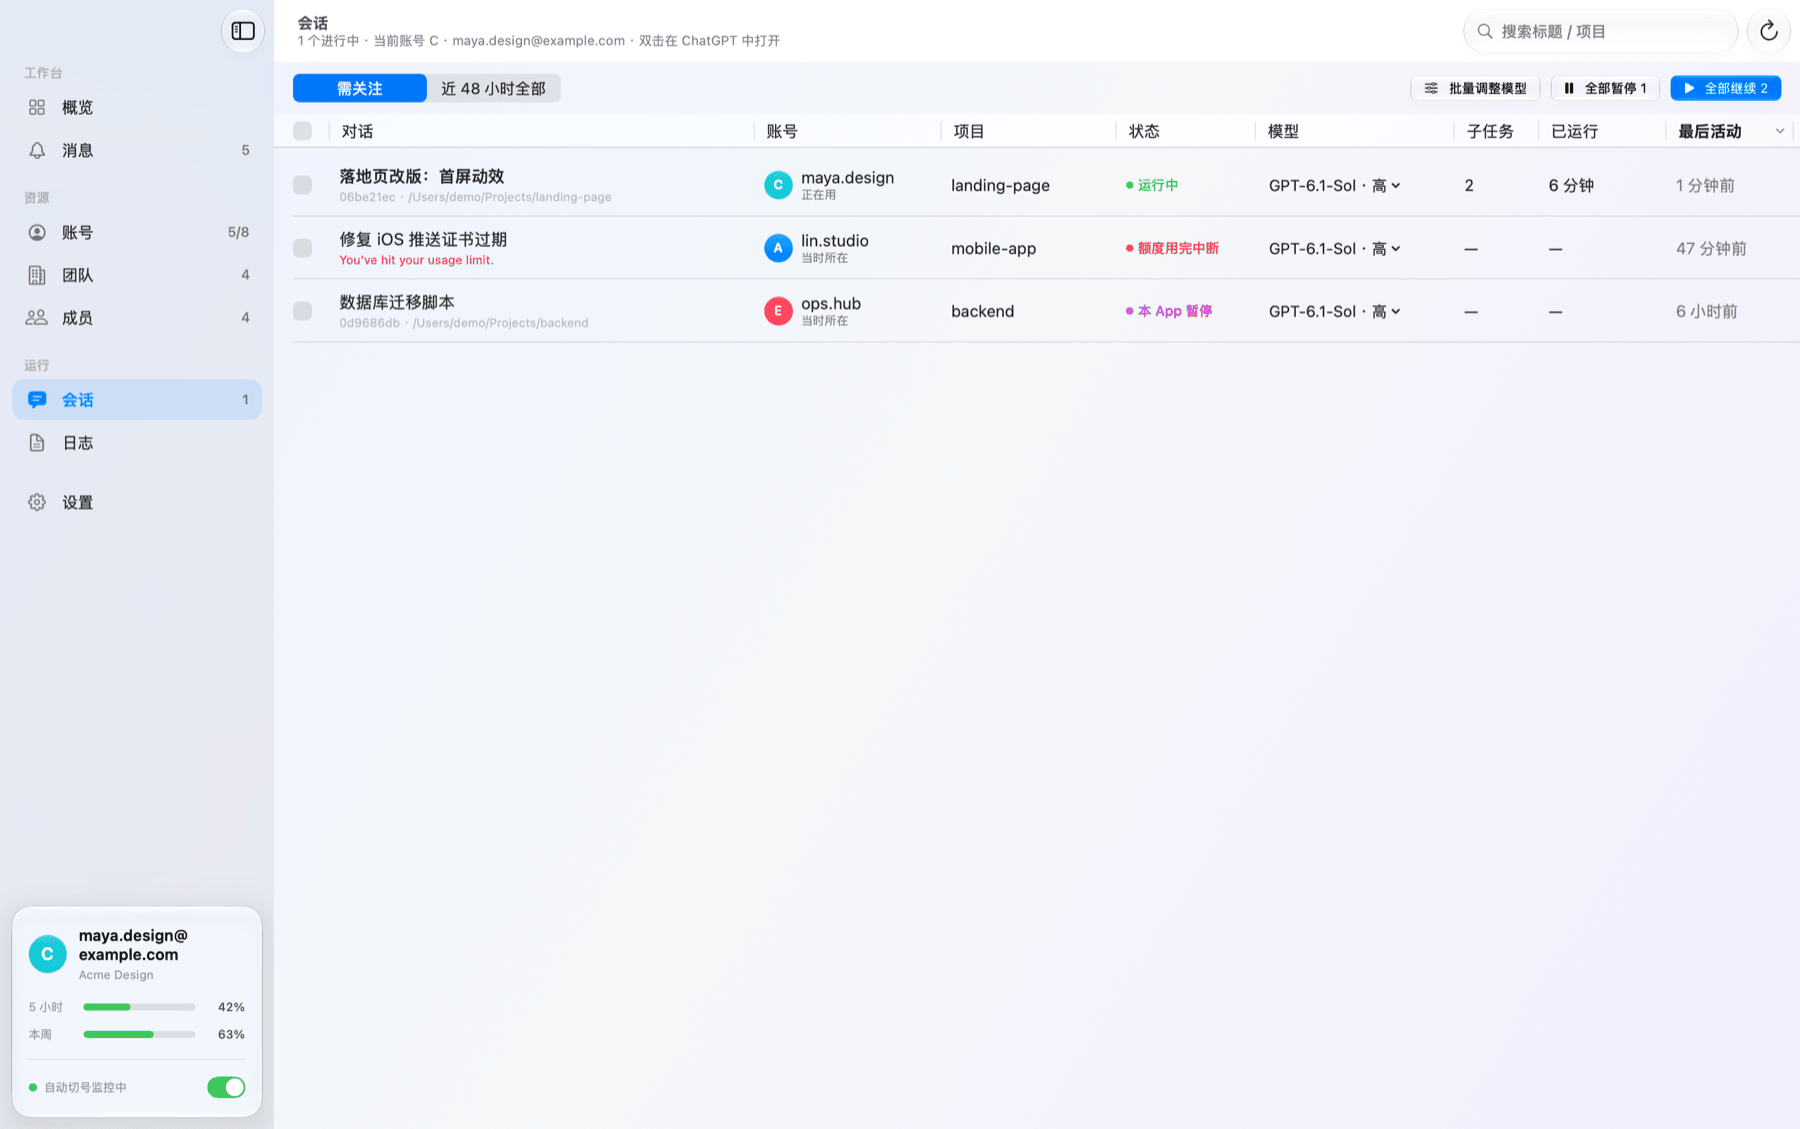
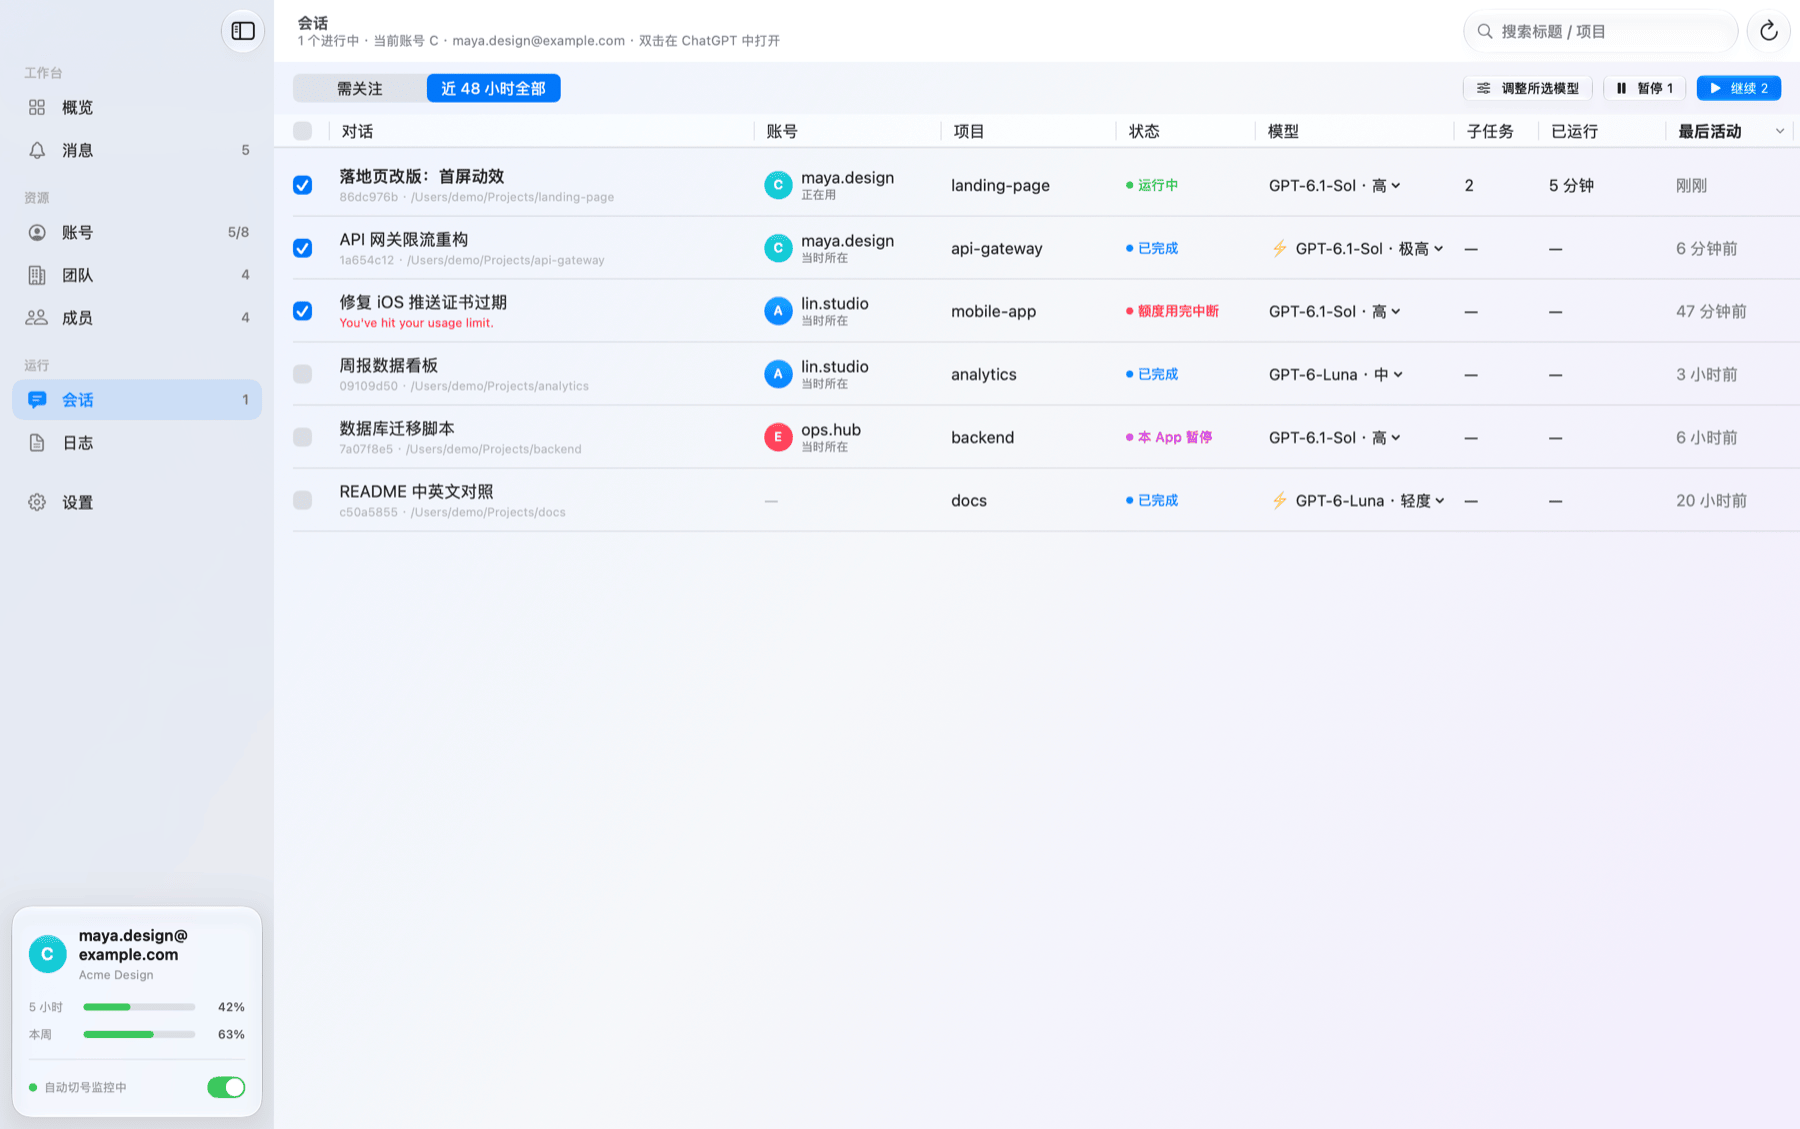
README: session management section with model / speed switching screenshots

diff --git a/App/SessionsPage.swift b/App/SessionsPage.swift
@@ -189,6 +189,15 @@ struct SessionsPage: View {
             Button { store.reloadSessions() } label: { Label("刷新", systemImage: "arrow.clockwise") }
         }
         .onAppear { store.loadModels() }
+        .onAppear {   // 截图 / 演示用：--sessions-all 看全部、--demo-check 勾选前 3 行、--show-bulk 打开批量调整
+            // （参数后面不能跟数字：跟了窗口就不出来）
+            let args = CommandLine.arguments
+            if args.contains("--sessions-all") { filter = "all" }
+            if args.contains("--demo-check") {
+                DispatchQueue.main.asyncAfter(deadline: .now() + 1) { checked = Set(rows.prefix(3).map(\.id)) }
+            }
+            if args.contains("--show-bulk") { DispatchQueue.main.asyncAfter(deadline: .now() + 1.5) { bulk = true } }
+        }
         .onAppear { if let f = store.focus, store.sessions.contains(where: { $0.thread == f }) { selection = f; filter = "all"; store.focus = nil } }
     }
 

diff --git a/README.md b/README.md
@@ -5,7 +5,8 @@
 # ChatGPT / Codex Auto Switch
 
 **ChatGPT 账号：多个 ChatGPT / Codex 账号，一个窗口管好。**<br>
-额度用完自动换号，被打断的对话自动接着答；团队续费、成员交费、额度重置券一目了然。
+额度用完自动换号，被打断的对话自动接着答；所有 Codex 对话一张表里继续 / 暂停，随手换模型、推理强度和速度；<br>
+团队续费、成员交费、额度重置券一目了然。
 
 [![macOS 14+](https://img.shields.io/badge/macOS-14%2B-000000?logo=apple&logoColor=white)](#系统要求)
 [![Apple Silicon](https://img.shields.io/badge/Apple%20Silicon-M1%E2%80%93M4-555555)](#系统要求)
@@ -13,7 +14,7 @@
 [![Python 3.9+](https://img.shields.io/badge/Python-3.9%2B-3776AB?logo=python&logoColor=white)](engine.py)
 [![License: MIT](https://img.shields.io/badge/License-MIT-green.svg)](LICENSE)
 
-[**⬇ 下载最新版**](../../releases/latest) · [功能](#功能一览) · [安装](#安装) · [常见问题](#常见问题) · [English](README.en.md)
+[**⬇ 下载最新版**](../../releases/latest) · [功能](#功能一览) · [会话管理](#-会话管理) · [安装](#安装) · [常见问题](#常见问题) · [English](README.en.md)
 
 <picture>
   <source media="(prefers-color-scheme: dark)" srcset="docs/images/overview-dark.png">
@@ -40,6 +41,8 @@
 | | |
 |---|---|
 | 🔄 **自动切号并续答** | 额度用完先等同账号上还在跑的对话自己做完，再换到下一个可用账号，被打断的对话在后台自动接着答；全程不抢你手上的窗口 |
+| 💬 **会话管理** | 所有 Codex 对话一张表：在跑、卡住、因额度中断、跑在哪个账号；逐个或勾选批量**继续 / 暂停**，全在后台，不用切到 ChatGPT |
+| 🧠 **随手换模型和速度** | 每个对话单独或批量改**模型、推理强度（轻度 → 极高）、速度（标准 / 快速 2 倍）**，下一轮生效；选项和叫法跟 ChatGPT 自己的菜单一致 |
 | 🧭 **切号规则可调** | 按字母、「重置最近优先」或「剩余最多优先」挑下一个；留着自己手动用的账号可以设成「不参与自动轮换」 |
 | 📊 **额度一眼看清** | 每个账号的 5 小时 / 本周剩余、重置时间、几点恢复，当前账号几乎实时 |
 | ▶ **结束后自动继续** | 模型自己停下（不是额度用完）也能自动接着干，每个对话有次数上限，整晚不用守着 |
@@ -47,8 +50,6 @@
 | 🎟 **额度重置券** | 列出每个账号的免费重置券和过期时间，一键使用，用前二次确认 |
 | 🏢 **团队与订阅** | 所有团队空间的续费 / 到期日、席位用量、成员、待接受邀请 |
 | 💰 **成员交费台账** | 按加入日每月提醒交费，逾期标红，收到钱点「标记已交」顺延一个月 |
-| 💬 **会话管理** | 哪些对话在跑、哪些因额度中断、跑在哪个账号；逐个或勾选批量**继续 / 暂停**，不用切到 ChatGPT |
-| 🧠 **改模型和速度** | 每个对话单独或批量改模型、推理强度、速度（标准 / 快速），选项和叫法跟 ChatGPT 自己的菜单一致 |
 | 🔔 **消息中心** | 续费、到期、欠费、交费、新成员、券过期，提前 3 天提醒并发系统通知 |
 | 🛡 **不怕 Cloudflare 拦截** | 团队、订阅、成员接口被 Cloudflare 拦下时，自动改用 App 内置的浏览器内核去取 |
 | 🔒 **数据只在本机** | 没有服务器，不收集任何信息；只和 chatgpt.com 通信 |
@@ -92,18 +93,37 @@
 
 后台服务重启后，会补查最近 30 分钟内因额度停下的对话，该切号就切、该续答就续答。
 
-会话页列出近 48 小时的对话：运行中、疑似卡住、额度用完中断、本 App 暂停、已完成……跑在哪个账号、用的什么模型，默认按最后活动排序。
+### 💬 会话管理
 
-- **继续 / 暂停**：每行右边有「继续」（没在跑的）或「暂停」（正在跑的）按钮，后台进行，不切到 ChatGPT。
+所有 Codex 对话在一张表里：不用在 ChatGPT 里一个个点开，就知道哪些在跑、哪些卡住、哪些因额度中断，
+跑在哪个账号、用的什么模型和速度，并且直接在这里操作，全部在后台进行，ChatGPT 不会被叫到前台。
+
+- **一眼看全**：近 48 小时的对话，状态分运行中、疑似卡住、额度用完中断、本 App 暂停、已手动停止、已完成；
+  另有账号、项目、子任务数、已运行时长、最后活动，默认按最后活动倒序。「需关注」只留在跑、中断、暂停和排队的；可按标题或项目搜索。
+- **继续 / 暂停**：每行右边有「继续」（没在跑的）或「暂停」（正在跑的）按钮。
   暂停等同在 ChatGPT 里点停止，之后点「继续」就接着做；在这里暂停的对话标成「本 App 暂停」，自动续答会跳过它。
 - **勾选批量操作**：行首勾选，表头的框全选；表头按钮对勾选的对话「继续 N」「暂停 N」「调整所选模型」，没勾就是列表里全部。
-- **改模型和速度**：「模型」列显示当前的模型 · 推理强度（快速档带 ⚡），点开直接改，当前值打勾；
-  推理强度和速度的选项、叫法跟 ChatGPT 自己的模型菜单一致（例如快速档写「2 倍速度，用量更多」）。
-  改动从下一轮开始生效；没在 ChatGPT 里打开过的对话会在后台打开一下，焦点马上还给你。
+  比如额度快到了，一键「全部暂停」；换好账号再「全部继续」。
+- **随手换模型、推理强度和速度**：「模型」列显示当前的模型 · 推理强度（快速档带 ⚡），点开就是和 ChatGPT 一样的菜单：
+  模型、推理强度（轻度 / 中 / 高 / 极高…）、速度（「标准 · 默认速度」/「快速 · 2 倍速度，用量更多」），当前值打勾。
+  简单的活换成轻度 + 快速省时间，卡住的难题临时调到极高，不用切过去一个个找。
+- **批量调整模型**：勾几个对话（不勾就是全部），一次改模型、推理强度、速度；每项都可以选「不改」，保留各自原来的值。
 
+改模型和速度从下一轮开始生效，正在跑的这一轮不变；没在 ChatGPT 里打开过的对话会在后台打开一下，焦点马上还给你。
 双击一行在 ChatGPT 里打开；右键可以后台继续、暂停、打开对话并发「继续」、复制对话 ID。
 
-<img src="docs/images/sessions.png" alt="会话页：正在运行和因额度中断的对话" width="100%">
+<img src="docs/images/sessions.png" alt="会话页：勾选几个对话，表头按钮对所选继续、暂停、调整模型" width="100%">
+
+<table>
+  <tr>
+    <td width="50%"><img src="docs/images/sessions-model.png" alt="点开模型列：模型、推理强度、速度，当前值打勾"></td>
+    <td width="50%"><img src="docs/images/sessions-bulk.png" alt="批量调整模型：一次改所选对话的模型、推理强度、速度"></td>
+  </tr>
+  <tr>
+    <td align="center">点开「模型」列：模型、推理强度、速度</td>
+    <td align="center">批量调整：每项可选「不改」</td>
+  </tr>
+</table>
 
 ### 📊 账号与额度
 

diff --git a/README.en.md b/README.en.md
@@ -5,7 +5,8 @@
 # ChatGPT / Codex Auto Switch
 
 **Run several ChatGPT / Codex accounts from one window.**<br>
-When one account hits its usage limit, switch to the next one automatically and pick the interrupted conversation back up.
+When one account hits its usage limit, switch to the next one automatically and pick the interrupted conversation back up.<br>
+Continue or pause every Codex conversation from one table, and change model, reasoning effort and speed on the fly.<br>
 Team renewals, member payments and limit-reset credits all in one place.
 
 [![macOS 14+](https://img.shields.io/badge/macOS-14%2B-000000?logo=apple&logoColor=white)](#requirements)
@@ -14,7 +15,7 @@ Team renewals, member payments and limit-reset credits all in one place.
 [![Python 3.9+](https://img.shields.io/badge/Python-3.9%2B-3776AB?logo=python&logoColor=white)](engine.py)
 [![License: MIT](https://img.shields.io/badge/License-MIT-green.svg)](LICENSE)
 
-[**⬇ Download**](../../releases/latest) · [Features](#features) · [Install](#install) · [FAQ](#faq) · [中文](README.md)
+[**⬇ Download**](../../releases/latest) · [Features](#features) · [Sessions](#sessions) · [Install](#install) · [FAQ](#faq) · [中文](README.md)
 
 <picture>
   <source media="(prefers-color-scheme: dark)" srcset="docs/images/overview-dark.png">
@@ -44,6 +45,8 @@ it switches to the next available one and sends "continue" in every conversation
 | | |
 |---|---|
 | 🔄 **Auto-switch & resume** | When the limit is hit, waits for the account's other running conversations to finish their turn, switches to the next usable account and resumes the interrupted ones in the background — without pulling ChatGPT to the front |
+| 💬 **Sessions** | Every Codex conversation in one table — running, stuck, stopped at the limit, and on which account; **continue / pause** one or a checked batch, all in the background |
+| 🧠 **Model & speed on the fly** | Change **model, reasoning effort (low → extra high) and speed (Standard / Fast 2×)** per conversation or in bulk, from the next turn; same options ChatGPT's own menu shows |
 | 🧭 **Switching rules** | Pick the next account alphabetically, soonest reset first, or most remaining; keep an account out of the rotation with "skip rotation" |
 | 📊 **Quota at a glance** | 5-hour and weekly remaining quota, reset times and when each exhausted account comes back |
 | ▶ **Keep going** | When the model stops on its own (not a limit), send "continue" automatically — capped per conversation |
@@ -51,8 +54,6 @@ it switches to the next available one and sends "continue" in every conversation
 | 🎟 **Reset credits** | Lists free limit-reset credits and their expiry; use one with a confirmation |
 | 🏢 **Teams & subscriptions** | Renewal / expiry dates, seat usage, members and pending invites of every team workspace |
 | 💰 **Member payments** | Monthly due dates per member, overdue in red, "mark as paid" moves to next month |
-| 💬 **Sessions** | Which conversations are running, which stopped at the limit, and on which account; **continue / pause** one or a checked batch without switching to ChatGPT |
-| 🧠 **Model & speed** | Change the model, reasoning effort and speed (Standard / Fast) per conversation or in bulk, with the same options ChatGPT's own menu shows |
 | 🔔 **Notifications** | Renewals, expiries, failed payments, dues, new members, expiring credits — 3 days ahead |
 | 🛡 **Cloudflare-proof** | When Cloudflare blocks the team / subscription / member endpoints, they're fetched through the app's built-in WebKit instead |
 | 🔒 **Local only** | No server, no telemetry. Talks to chatgpt.com and nothing else |
@@ -72,11 +73,43 @@ current account with 5-hour and weekly bars.
   </tr>
   <tr>
     <td><img src="docs/images/members.png" alt="Member payments"></td>
-    <td><img src="docs/images/sessions.png" alt="Sessions"></td>
+    <td><img src="docs/images/resets.png" alt="Reset credits"></td>
   </tr>
   <tr>
     <td><img src="docs/images/messages.png" alt="Notifications"></td>
     <td><img src="docs/images/settings.png" alt="Settings"></td>
+  </tr>
+</table>
+
+## Sessions
+
+Every Codex conversation from the last 48 hours in one table, without opening them one by one in ChatGPT: status
+(running, possibly stuck, stopped at the limit, paused here, stopped by you, done), account, project, sub-tasks, run time and
+last activity, newest first. *Needs attention* keeps only the running, interrupted, paused and queued ones; search by title or project.
+Everything below runs in the background — ChatGPT is not brought to the front.
+
+- **Continue / pause** — each row has *Continue* (idle) or *Pause* (running). Pause is the same as ChatGPT's stop button;
+  conversations paused here are marked and skipped by auto-resume until you continue them.
+- **Check to act in bulk** — tick rows (the header box selects all); the header buttons continue, pause or adjust the model of the
+  checked conversations, or of the whole list when nothing is checked. About to run out? *Pause all*, switch, *Continue all*.
+- **Model, reasoning effort and speed on the fly** — the Model column shows model · effort (⚡ for Fast). Click it for the same menu
+  ChatGPT has: model, effort (low / medium / high / extra high…), speed (*Standard · default speed* / *Fast · 2× speed, uses more*),
+  current values ticked. Drop easy work to low + Fast, bump a hard one to extra high, without hunting for it in ChatGPT.
+- **Bulk adjust** — change model, effort and speed of all checked conversations at once; each can be left "unchanged" so every
+  conversation keeps its own value.
+
+Changes apply from the next turn; a conversation that isn't open in ChatGPT is opened in the background briefly and focus is handed back.
+
+<img src="docs/images/sessions.png" alt="Sessions: check a few conversations and continue, pause or adjust the model from the header" width="100%">
+
+<table>
+  <tr>
+    <td width="50%"><img src="docs/images/sessions-model.png" alt="Model menu: model, reasoning effort, speed"></td>
+    <td width="50%"><img src="docs/images/sessions-bulk.png" alt="Bulk adjust: model, reasoning effort, speed for the checked conversations"></td>
+  </tr>
+  <tr>
+    <td align="center">Click the Model column: model, effort, speed</td>
+    <td align="center">Bulk adjust: leave any of them unchanged</td>
   </tr>
 </table>
 
